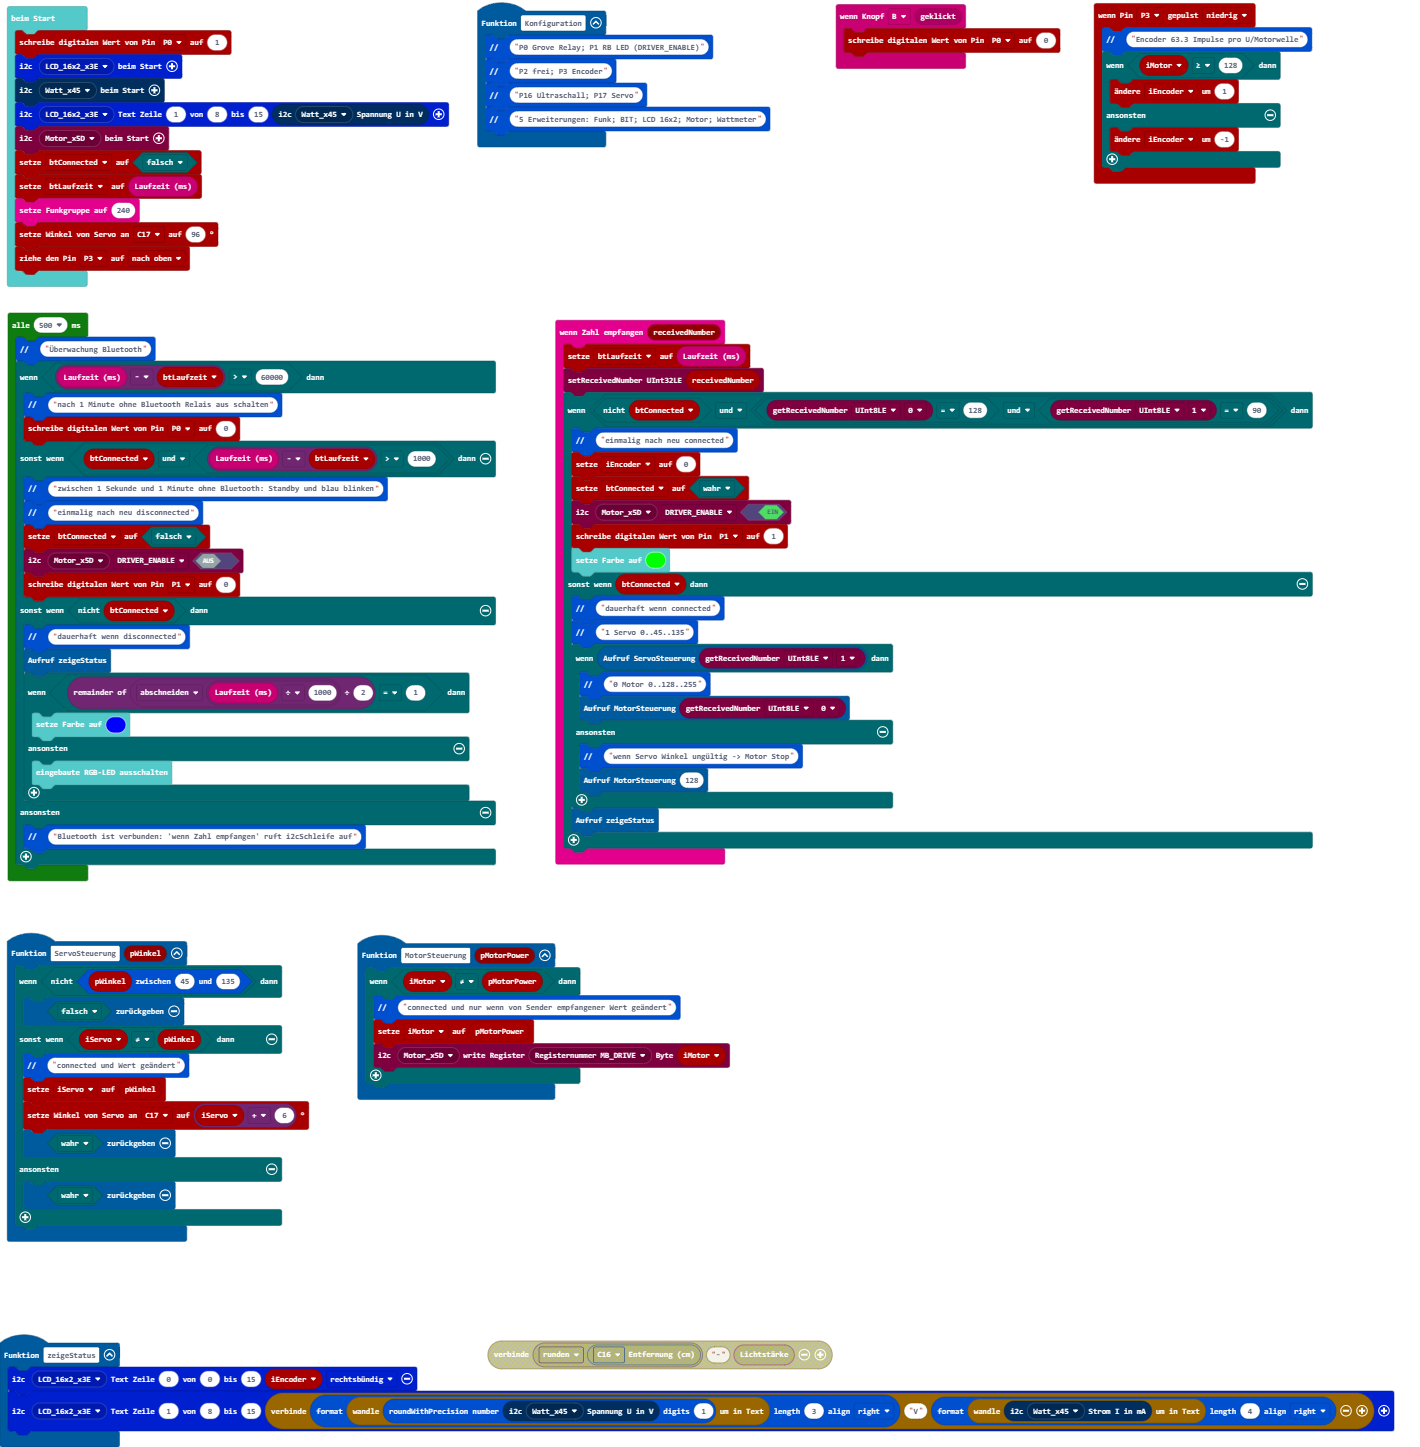
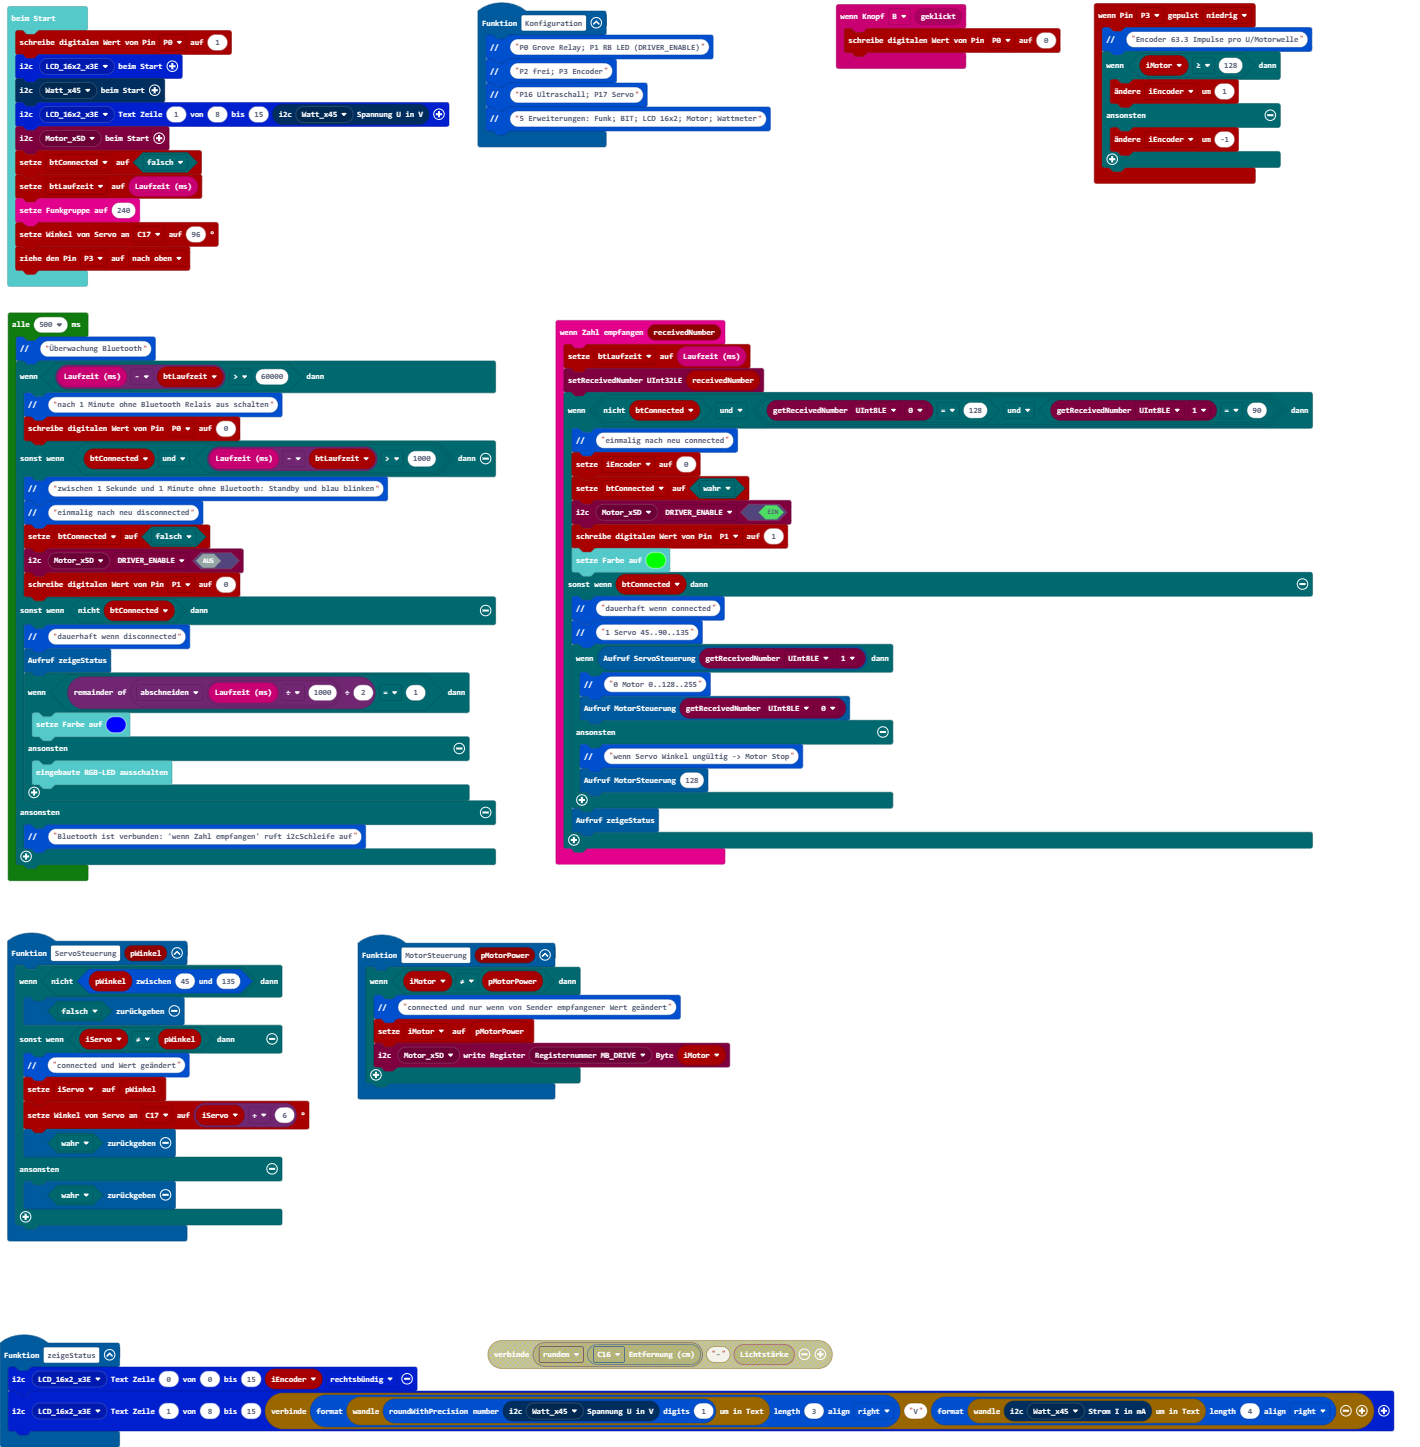
Aktualisiere main.blocks, main.ts

diff --git a/main.ts b/main.ts
@@ -10,7 +10,7 @@ radio.onReceivedNumber(function (receivedNumber) {
         basic.setLedColor(0x00ff00)
     } else if (btConnected) {
         bit.comment("dauerhaft wenn connected")
-        bit.comment("1 Servo 0..45..135")
+        bit.comment("1 Servo 45..90..135")
         if (ServoSteuerung(qwiicmotor.getReceivedNumber(NumberFormat.UInt8LE, qwiicmotor.eOffset.z1))) {
             bit.comment("0 Motor 0..128..255")
             MotorSteuerung(qwiicmotor.getReceivedNumber(NumberFormat.UInt8LE, qwiicmotor.eOffset.z0))
